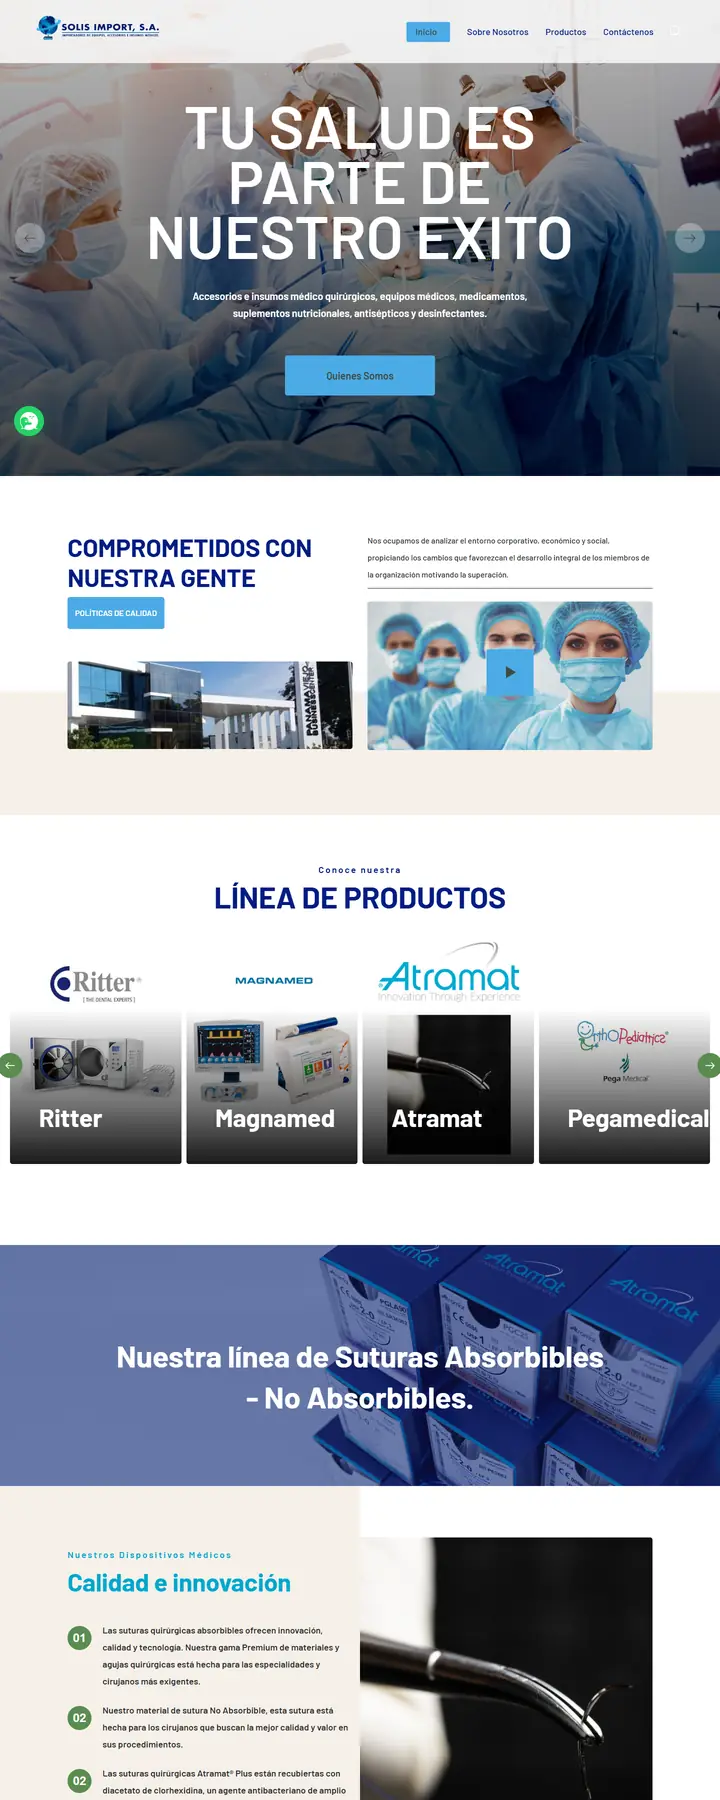
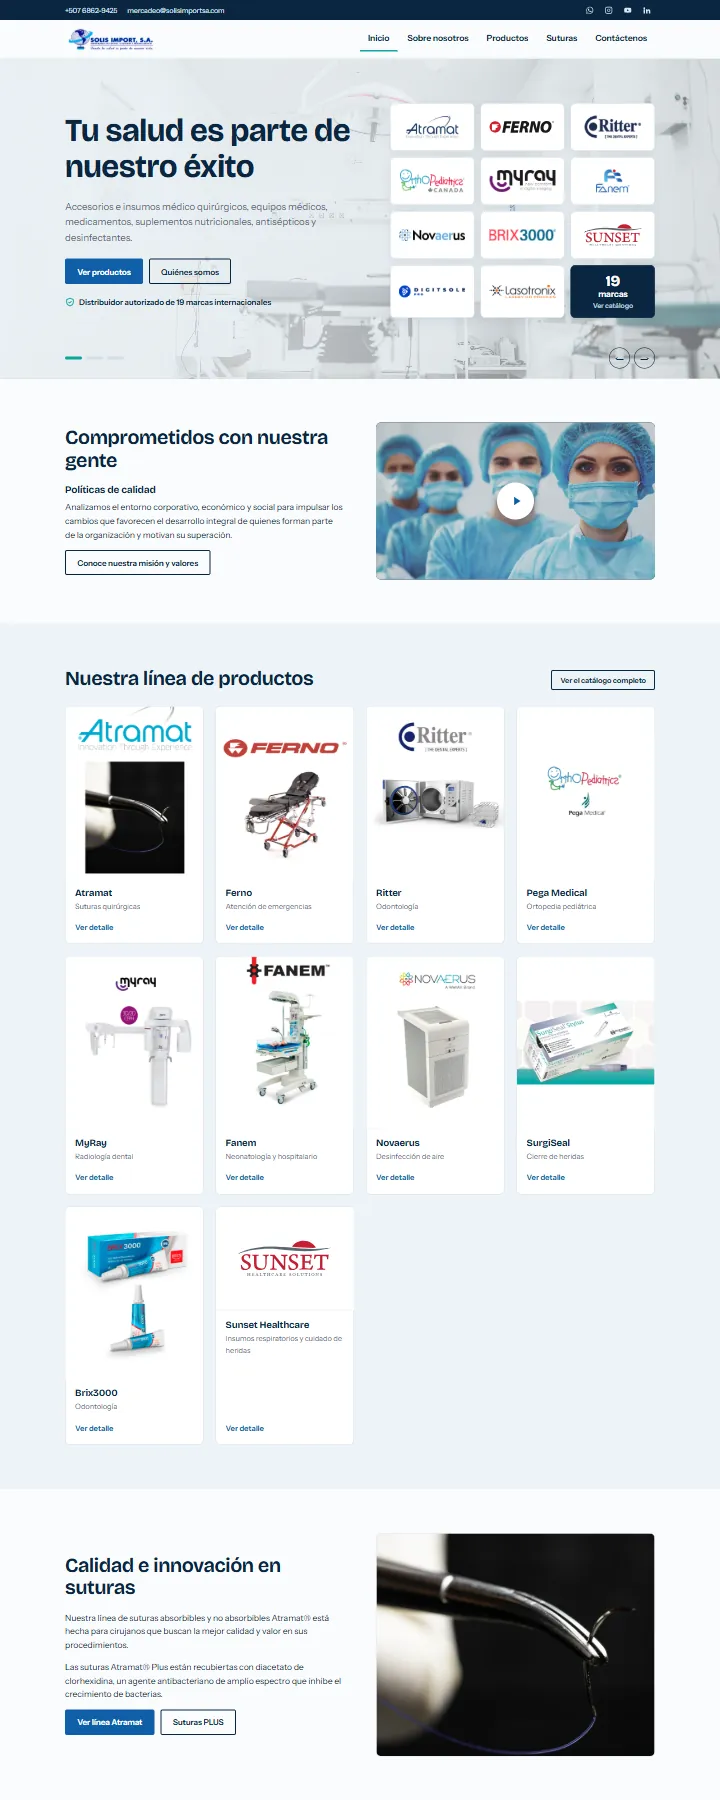
Portafolio: nueva captura y datos de Solis Import S.A.

diff --git a/src/lib/portfolio.ts b/src/lib/portfolio.ts
@@ -87,8 +87,8 @@ export const portfolio = [
     url: "https://www.solisimportsa.com",
     domain: "solisimportsa.com",
     industry: "Insumos médicos",
-    description: "Catálogo de equipos e insumos médico-quirúrgicos con líneas de producto por marca.",
-    accent: "#2b8fd6",
+    description: "Distribuidor de 19 marcas internacionales: catálogo de equipos e insumos médico-quirúrgicos por marca.",
+    accent: "#0f5fa8",
     height: 1800,
   },
   {
